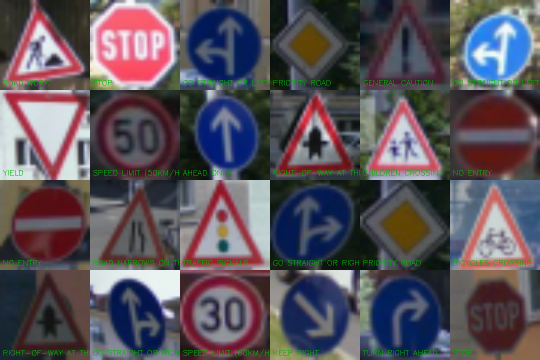
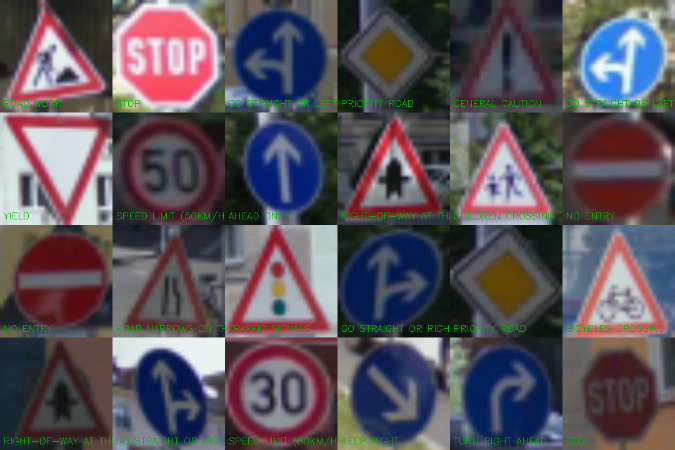
Updates to readme file and mosaic image size.

diff --git a/README.md b/README.md
@@ -27,14 +27,16 @@ Moving from 32 to 64 filters again nearly doubled the time to do the fitting, fo
 
 Finally, I tried to combine the best aspects of previous test runs by using 256 neurons, 2x convolutional layers with 64 filters, 2x max-pooling layers, and a dropout rate of 20%.  This resulted in essentially the same accuracy as using the layers with 32 filters and only 128 neurons, but the longest time to fit at around 27 seconds per epoch.  For the submitted model, I went back to the version which used 32 filters and only 128 neurons because it offered essentially the best performance with the lowest time to fit.
 
--------------------------------------------------------------------------------
+------------------------------------------
 
-Despite completing the assignment with the model described above, it left me feeling distinctly unsatisfied.  I saw the numbers on the screen describe the accuracy, but the model still felt purely academic rather than a real prediction tool.  So, I decided I would use the saved model to try to predict the sign category of 'real' images.
+Despite completing the assignment with the model described above, I felt unsatisfied.  The traffic.py file outputs an accuracy number, and I don't doubt that it is correct, but there was nothing to see at the end, and no tangible proof of that accuracy.  I wanted to use this saved model on 'real' images of traffic signs, not just those that were part of the data set.
 
 To test the saved model on 'real' images, I created a new file named traffic_predict.py which loads the saved model and uses the model.predict method to generate the highest-probability category for any input image.  To get 'real' images, I used Google Maps to virually walk around Munich and take screen grabs of any traffic signs that I could find.  I saved these images into a folder which was used as input to the model.predict method.
 
-I was also able to find a csv file online which translated the sign number categories into a description of the signs, and I used the cv2 library to generate a new image including the original image and text of the predicted category written on top.
+I was also able to find a csv file online which translated the sign number categories into a description of the signs, and I used the cv2 library to place text of the predicted category on top of each image.
 
 Finally, I used the cv2 library to create a mosaic image of all of the images fed into the model.predict method along with the model's prediction.  This was a much more satisfying result, where I could see a 'real' image, not part of the original data set, and how the model was able to interpret the image.
 
 ![mosaic of signs](mosaic.png 'traffic signs')
+
+Looking at the result...the model did pretty well on interpreting the images.  The only one I see incorrect is the 30kph sign, which was interpreted as 80kph.
